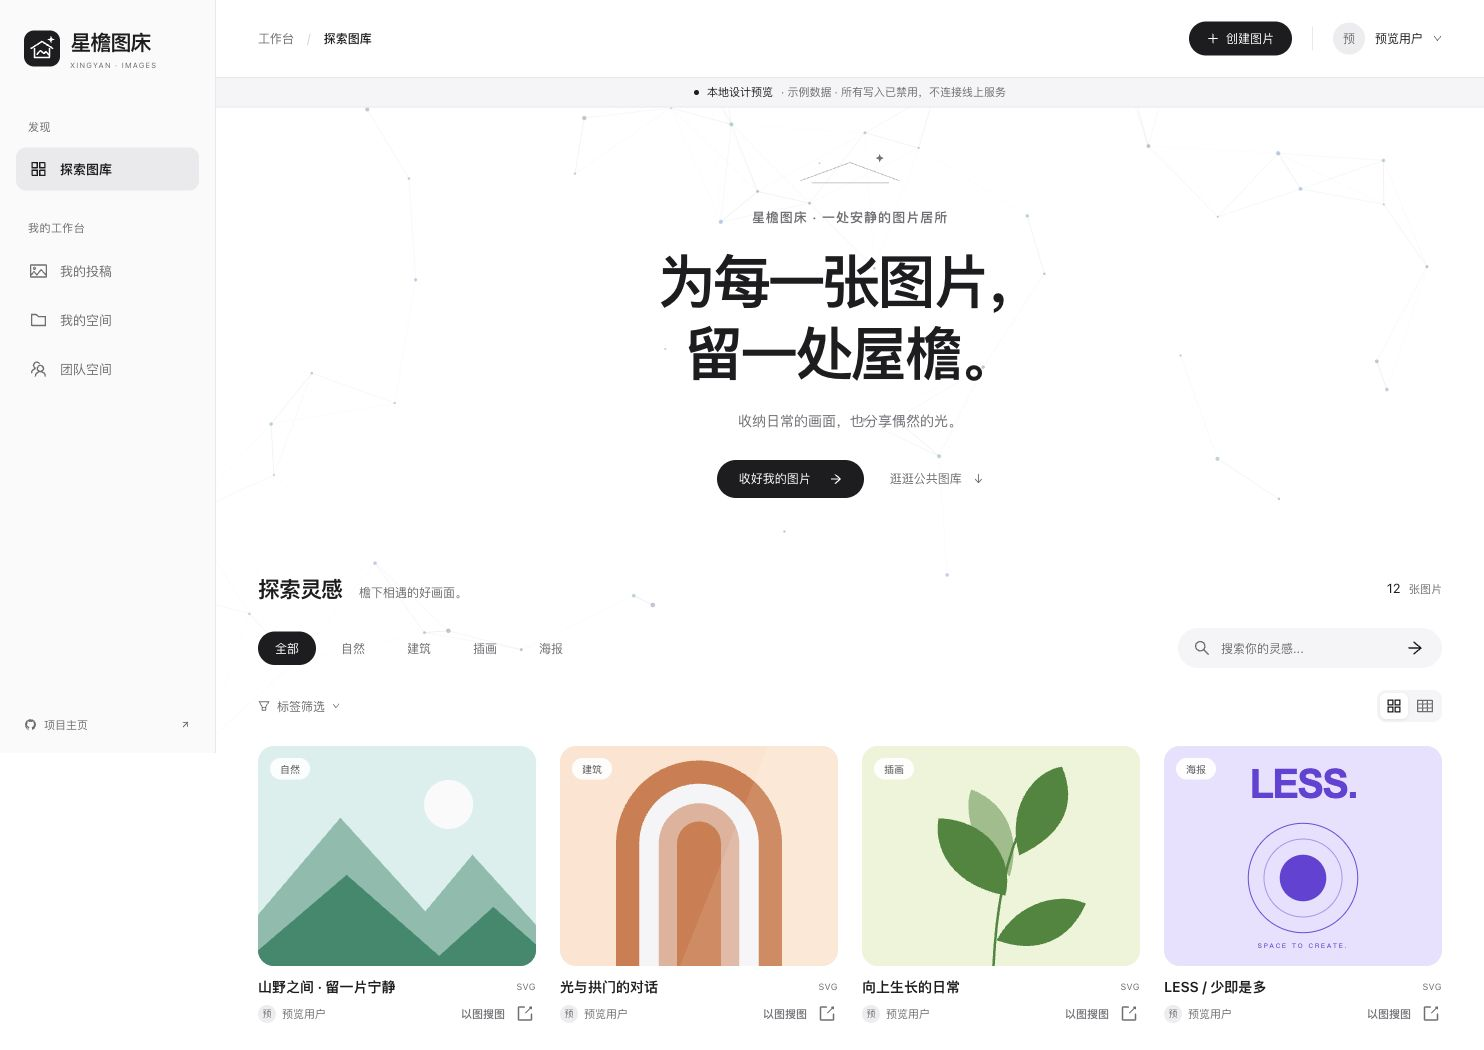
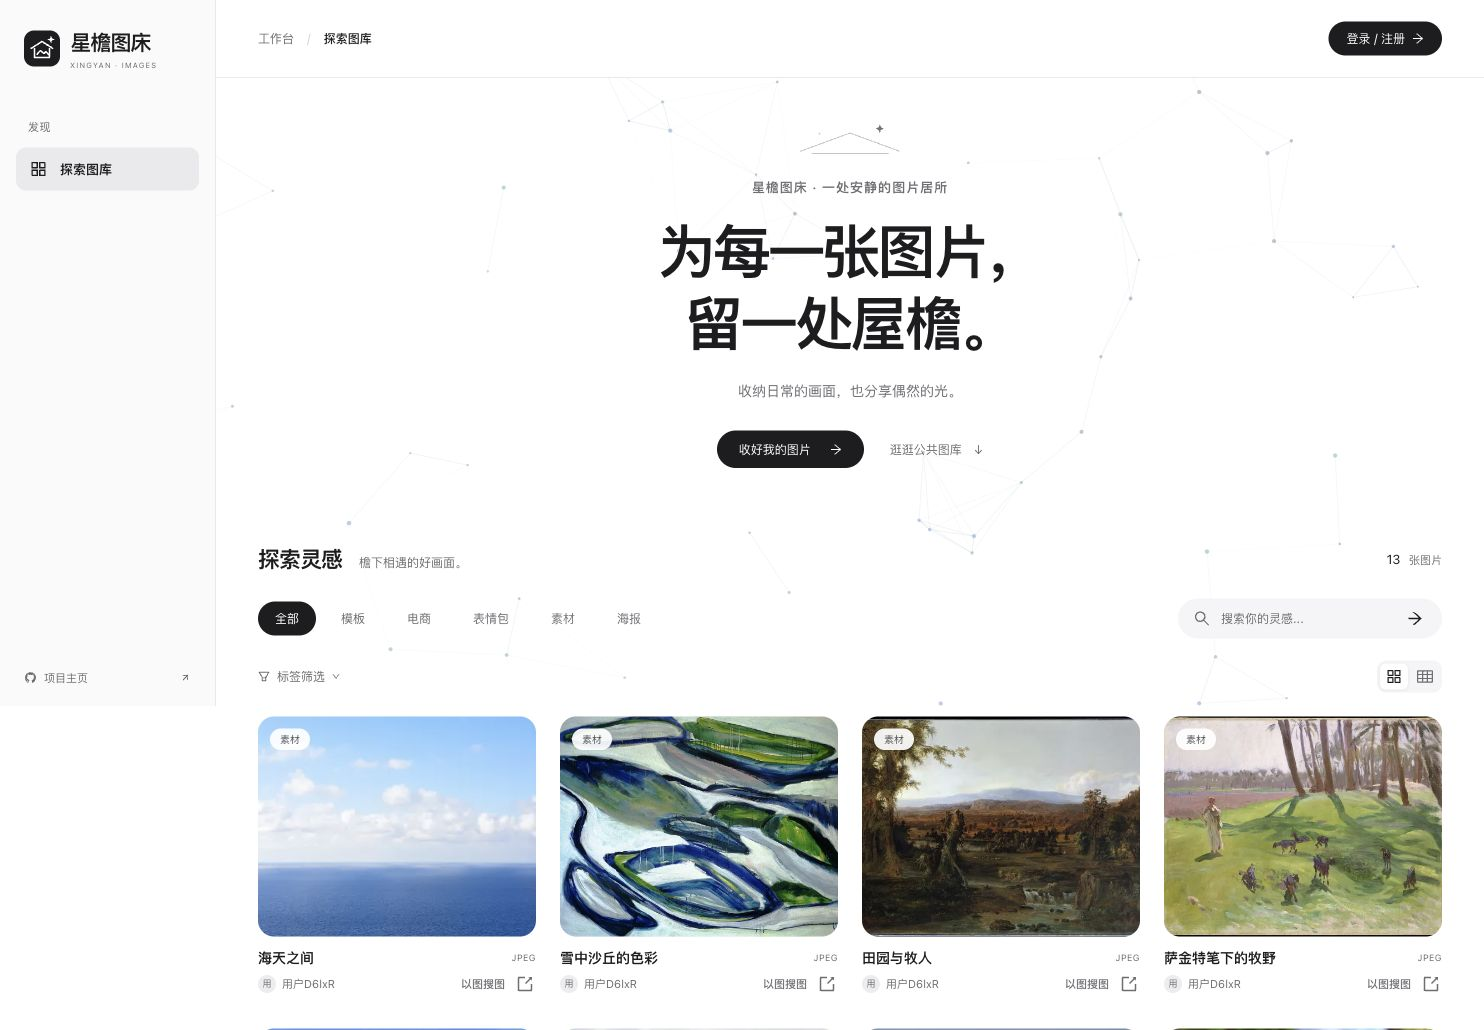
docs: replace demo images with live website screenshots

diff --git a/README.md b/README.md
@@ -23,7 +23,7 @@
 
 ![星檐首页：品牌欢迎区、分类筛选、搜索与公共图片卡片](docs/images/gallery.jpg)
 
-<p align="center"><sub>项目实际界面截图，使用本地预览模式的原创示例图片与合成数据；下方截图同样如此。线上内容与开放能力以网站实际展示为准。</sub></p>
+<p align="center"><sub>截图直接拍摄于 https://tc.higjx.com/，拍摄日期为 2026 年 10 月 28 日。展示的是当时的线上界面与内容，后续可能随更新变化。</sub></p>
 
 ## 先来逛逛
 
@@ -35,11 +35,23 @@
 
 ## 跟着界面逛一圈
 
+### 想找点灵感，先逛逛公共图库
+
+首页可以按分类、标签和关键词找图，也可以切换图片布局。从海景到画作，不用登录也能先看看这里都收了些什么。
+
+![线上公共图库：实际图片、分类、搜索、标签筛选与布局切换](docs/images/gallery-browse.jpg)
+
+### 喜欢一张图，就点进去看看
+
+详情页把图片和信息放在一起：预览、简介、分类、标签、尺寸、格式与主色调，不用来回切换就能了解这张图。
+
+![线上图片详情：海天之间的图片预览、来源介绍、标签、尺寸与分享入口](docs/images/picture-detail.jpg)
+
+图中的「海天之间」来自线上公共图库，简介保留了作者、来源和许可说明。分享入口也在详情页里，方便把喜欢的图片发给别人。
+
 ### 想分享的作品，放进「我的投稿」
 
 发过哪些图片，哪些还在草稿里，哪些正在等审核，都能在这里找到。需要修改的作品会显示反馈，完善后可以重新提交，不用在一堆图片里反复翻找。
-
-![我的投稿：作品状态筛选、搜索、草稿与待审核卡片，以及继续完善入口](docs/images/submissions.jpg)
 
 **你能在这里做的事：** 查看已公开、待审核、草稿和需修改的作品，按名称搜索，继续编辑或进入详情。草稿与未通过审核的作品不会出现在公共图库。
 
@@ -47,19 +59,15 @@
 
 收集参考图、整理日常照片，或者留一份自己的创作素材。空间把图片、搜索和容量用量放在一起，想找图时不用只靠记住文件名。
 
-![个人空间：图片列表、关键词搜索、筛选、颜色搜索与空间用量入口](docs/images/personal-space.jpg)
-
 **你能在这里做的事：** 管理空间内图片，按关键词、条件或颜色查找，查看容量与图片数量，并在具备权限时使用批量操作和图库分析。
 
 ### 一起用的素材，交给「团队空间」
 
 一起做项目时，团队成员可以在同一个空间里查看和整理图片。浏览、编辑和管理分别对应不同角色，成员管理与用量信息也有单独入口。
 
-![团队空间：团队列表、当前成员角色、图片数量、容量和成员管理入口](docs/images/team-space.jpg)
-
 **你能在这里做的事：** 进入加入的团队；按角色查看、上传或编辑图片；由团队管理员管理成员与分析图库。项目还实现了基于 WebSocket 的协作编辑状态同步。
 
-> 个人／团队空间的私有图片读写需要配置存储与访问权限。仓库示例配置默认关闭私有图片能力；上面的预览截图用于说明界面，不代表克隆后已经接通云存储。
+> 个人／团队空间的私有图片读写需要配置存储与访问权限。仓库示例配置默认关闭私有图片能力；部署自己的实例时，需要按启动指南接入这些服务。
 
 ### 还有一些用起来才会注意到的小地方
 
@@ -82,7 +90,7 @@ npm ci
 npm run dev:design
 ```
 
-打开 **[http://localhost:5173/](http://localhost:5173/)**，就能看到上面截图里的示例界面，不需要先配置数据库或云密钥。克隆需要具备仓库访问权限。
+打开 **[http://localhost:5173/](http://localhost:5173/)**，就能用合成数据预览界面，不需要先配置数据库或云密钥。这里的预览数据与上面的线上截图不同。克隆需要具备仓库访问权限。
 
 预览模式使用合成数据，所有写入都被禁用，不执行真实登录、上传、删除或 AI 请求；部分依赖后端的页面不提供预览数据。它适合看界面，完整功能需要连接后端，也不能用这个模式打包生产版本。
 
